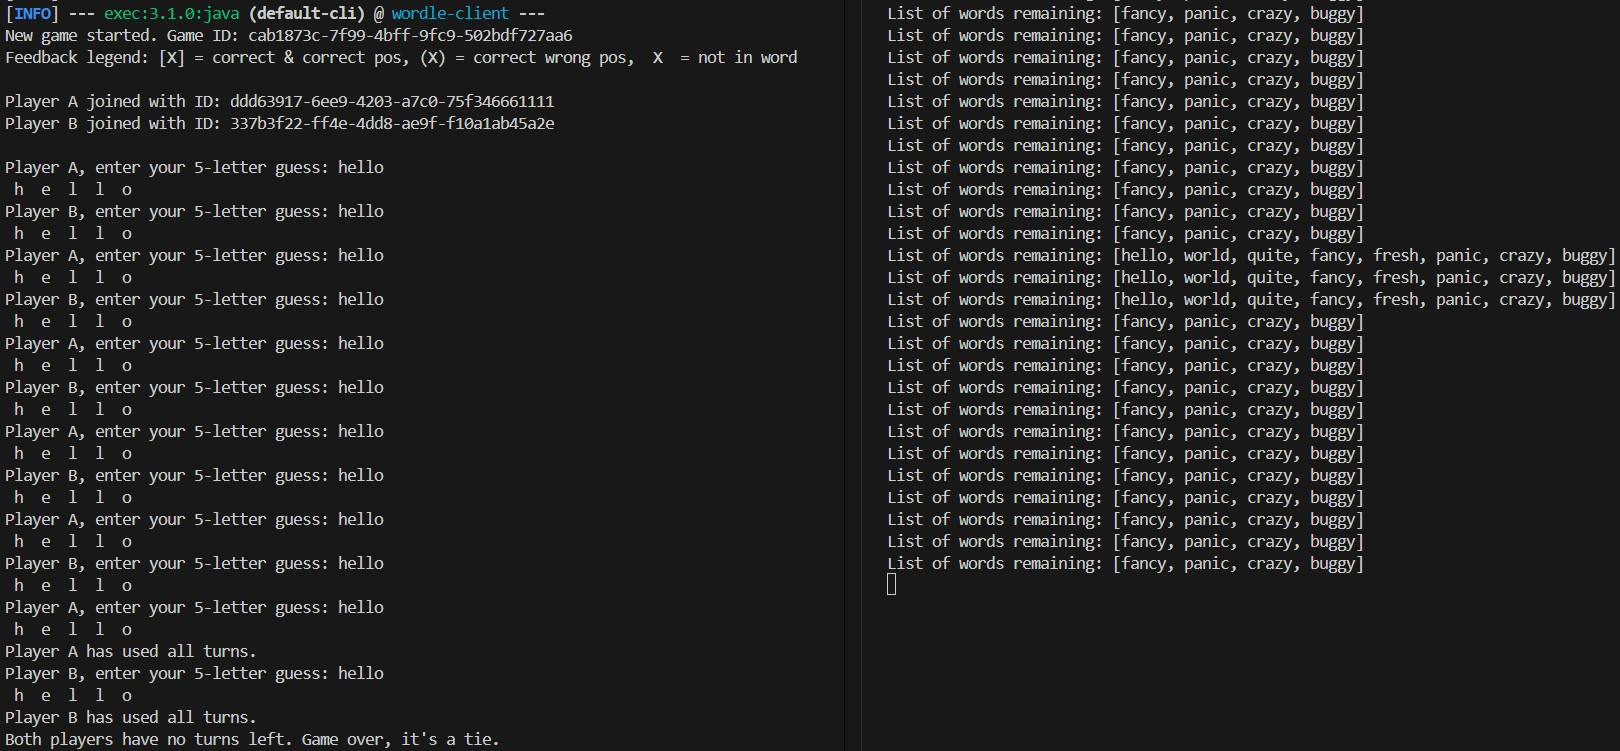
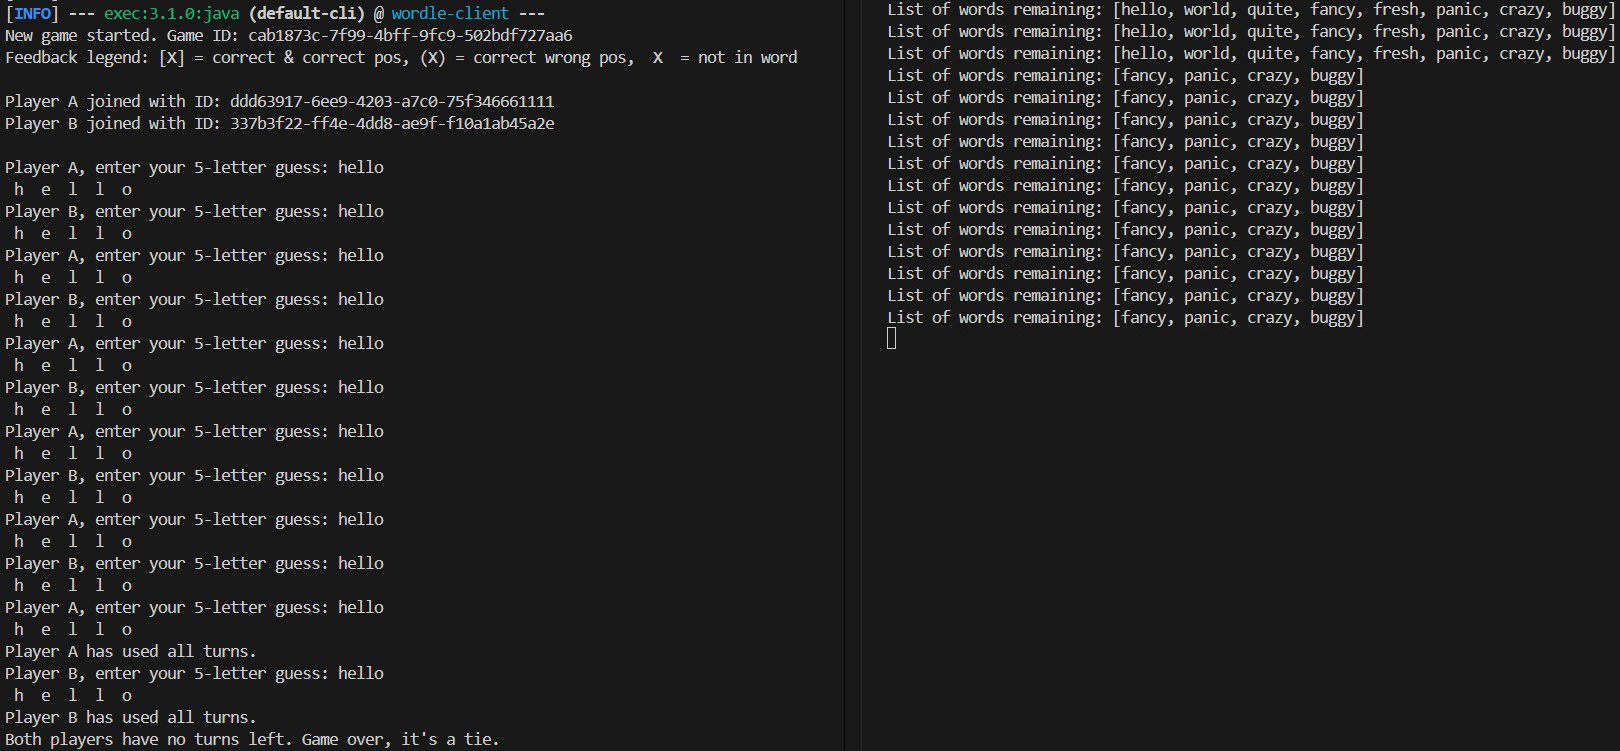
docs: update readme file to include client side multi-player feature specs

Changed region(s): [[0.5556, 0.0, 1.0, 0.7656]]

diff --git a/README.md b/README.md
@@ -4,8 +4,8 @@ This repository contains a multi‑module Maven project implementing a Wordle cl
 
 - **wordle-core**: Core game logic and data model.
 - **wordle-cli**: A simple command‑line interface for playing Wordle (Task 1), uses classes in wordle-core directly.
-- **wordle-client**: Client side module that calls the server API to receive game states and trigger game actions.
-- **wordle-server**: REST API server for Task 2, handling game sessions and input validation.
+- **wordle-client**: Client side module that calls the server API to receive game states and trigger game actions, two players will guess in turns(Task 4).
+- **wordle-server**: REST API server, handling game sessions and input validation (Task 2), supports host cheating mode(Task 3).
 
 ---
 
@@ -16,6 +16,7 @@ This repository contains a multi‑module Maven project implementing a Wordle cl
 - [Task 1: Normal wordle](#task-1-normal-wordle)
 - [Task 2: Server/client wordle](#task-2-serverclient-wordle)
 - [Task 3: Cheating Mode](#task-3-cheating-mode)
+- [Task 4: Multiplayer Mode](#task-4-multiplayer-mode)
 
 ---
 
@@ -245,6 +246,33 @@ Sandbox-VR-Wordle.postman_collection.json
 
 ---
 
+**Client supports two-player mode**:
+
+- Both Player A and Player B join the same game in one CLI session.
+- They alternate guesses in a single terminal, seeing per-guess feedback.
+- The first player to guess correctly wins; if both exhaust turns, the game ends in a draw.
+
 ## Client Usage
 
-In progress
+```bash
+mvn -pl wordle-client exec:java
+```
+
+**Client flow**:
+
+1. `POST /games` → get `gameId`
+2. `POST /games/{gameId}/join` twice → get `playerAId`, `playerBId`
+3. Alternate:
+   - Prompt Player A: input guess → `POST /games/{gameId}/guesses` with `X-Player-Id: playerAId`
+   - Prompt Player B: same with `playerBId`
+4. Feedback shown as `[X]`, `(X)`, `X` per guess
+5. Declare winner when `hasWon` is `true`
+
+An example run in two-player-cheat mode, player A winning, left side shows the client side logs, right side shows the server side logs (indicating the dynamically changing word pool):
+
+![CLI Screenshot](docs/wordle-multi.jpg)
+
+An example run in two-player-cheat mode, no winner, left side shows the client side logs, right side shows the server side logs (indicating the dynamically changing word pool):
+
+![CLI Screenshot](docs/wordle-multi-tie.jpg)
+---
